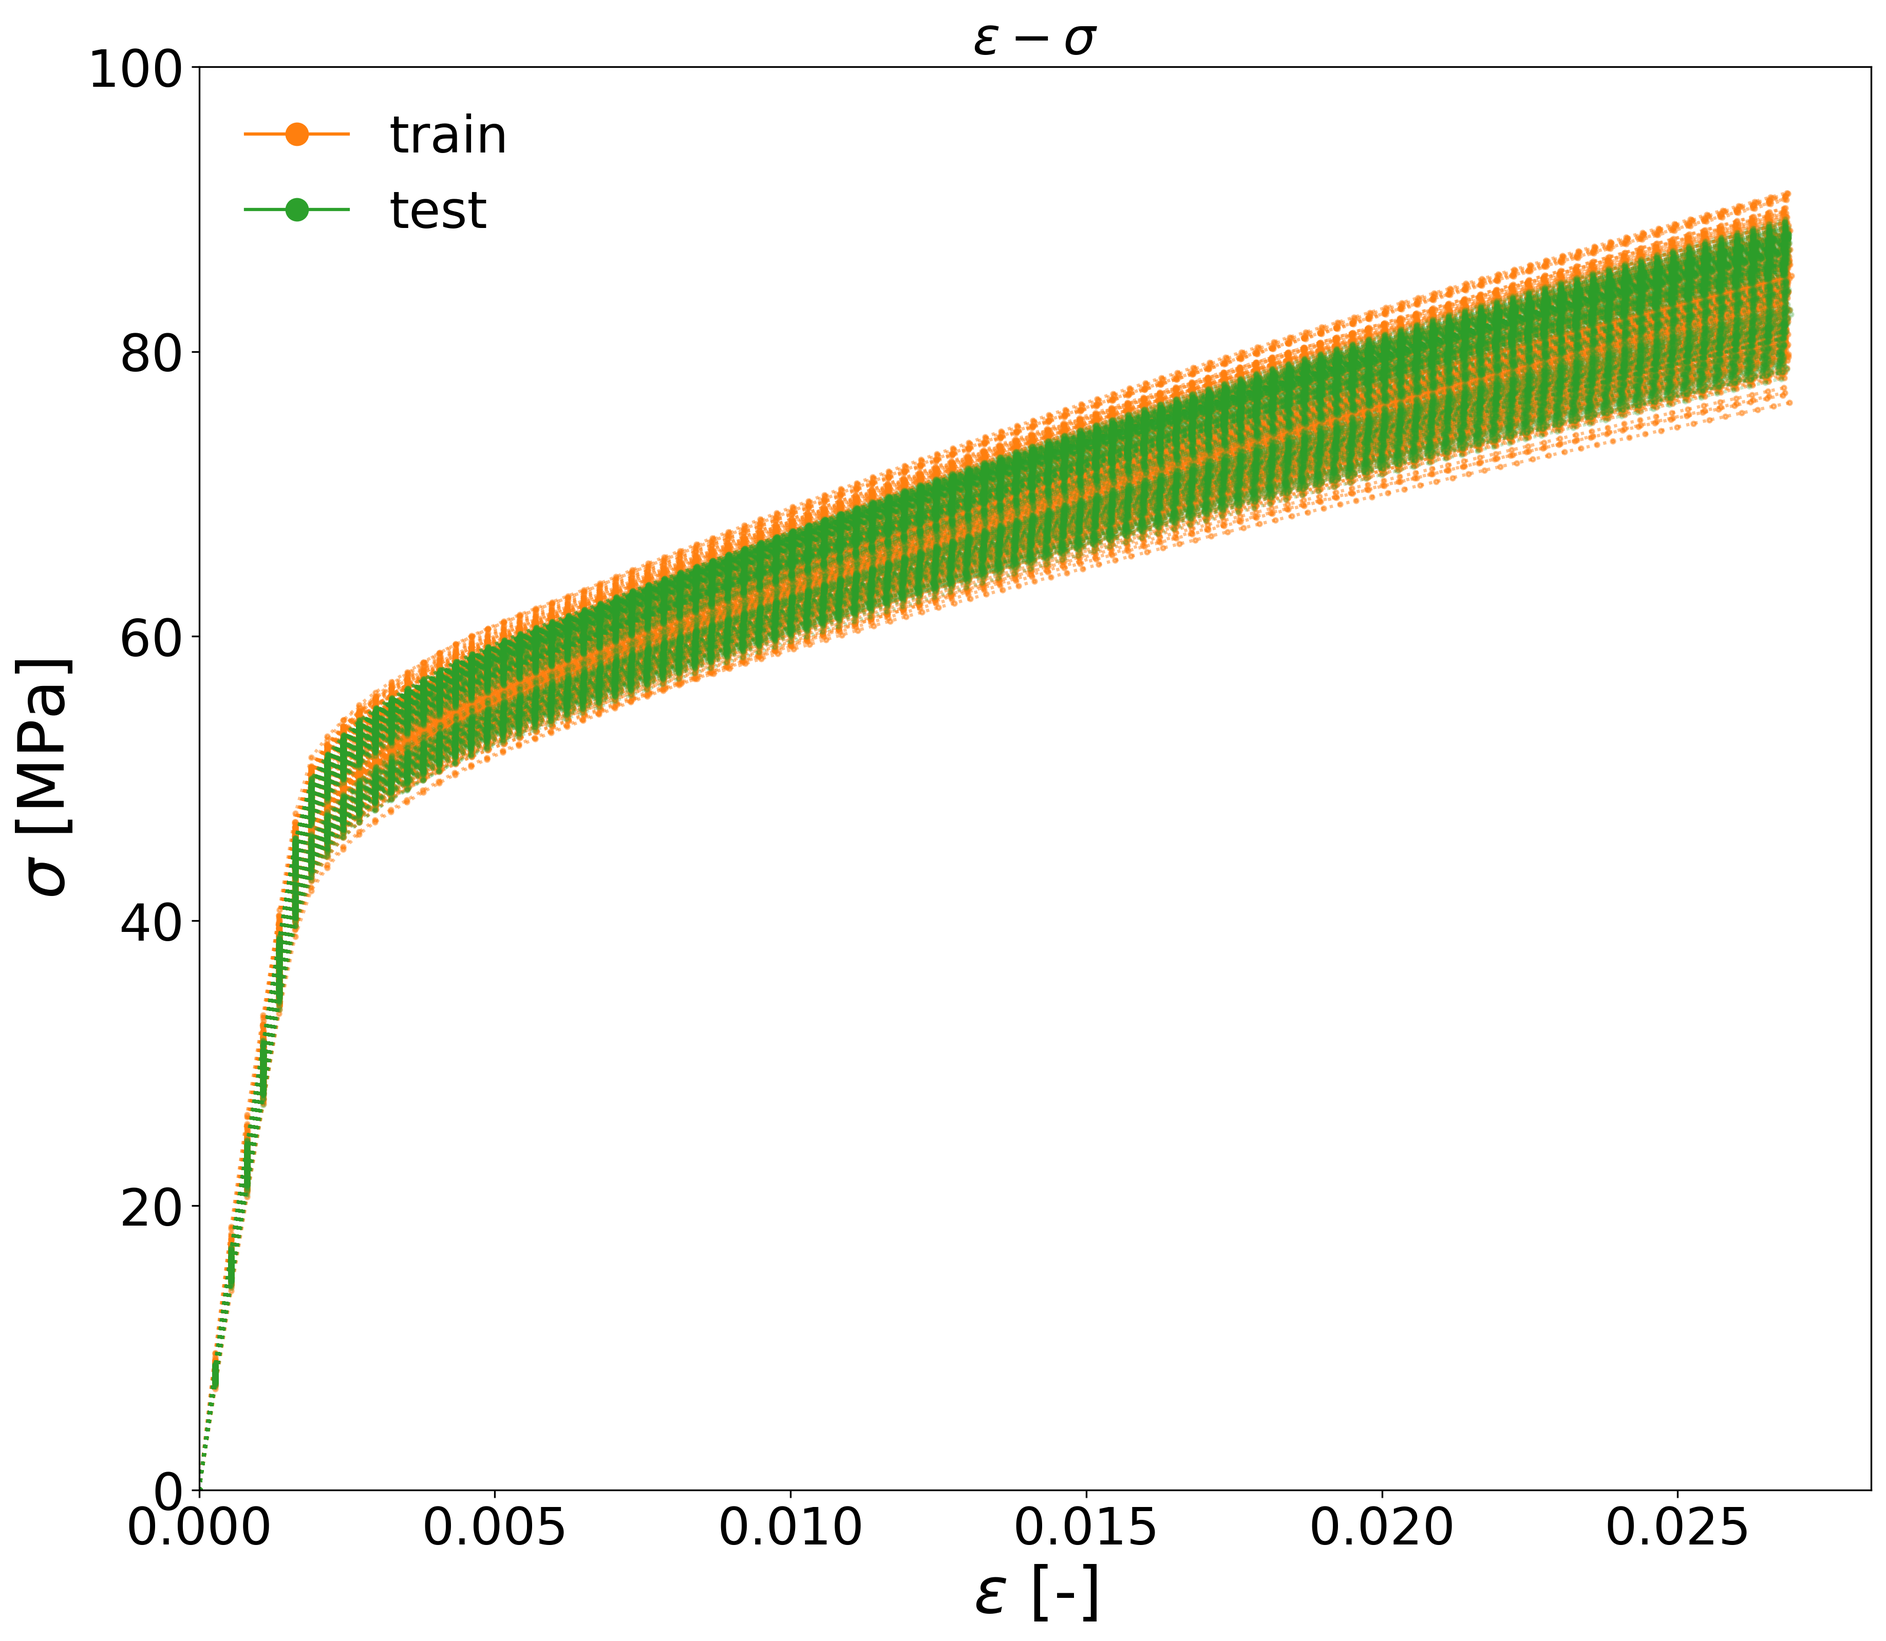
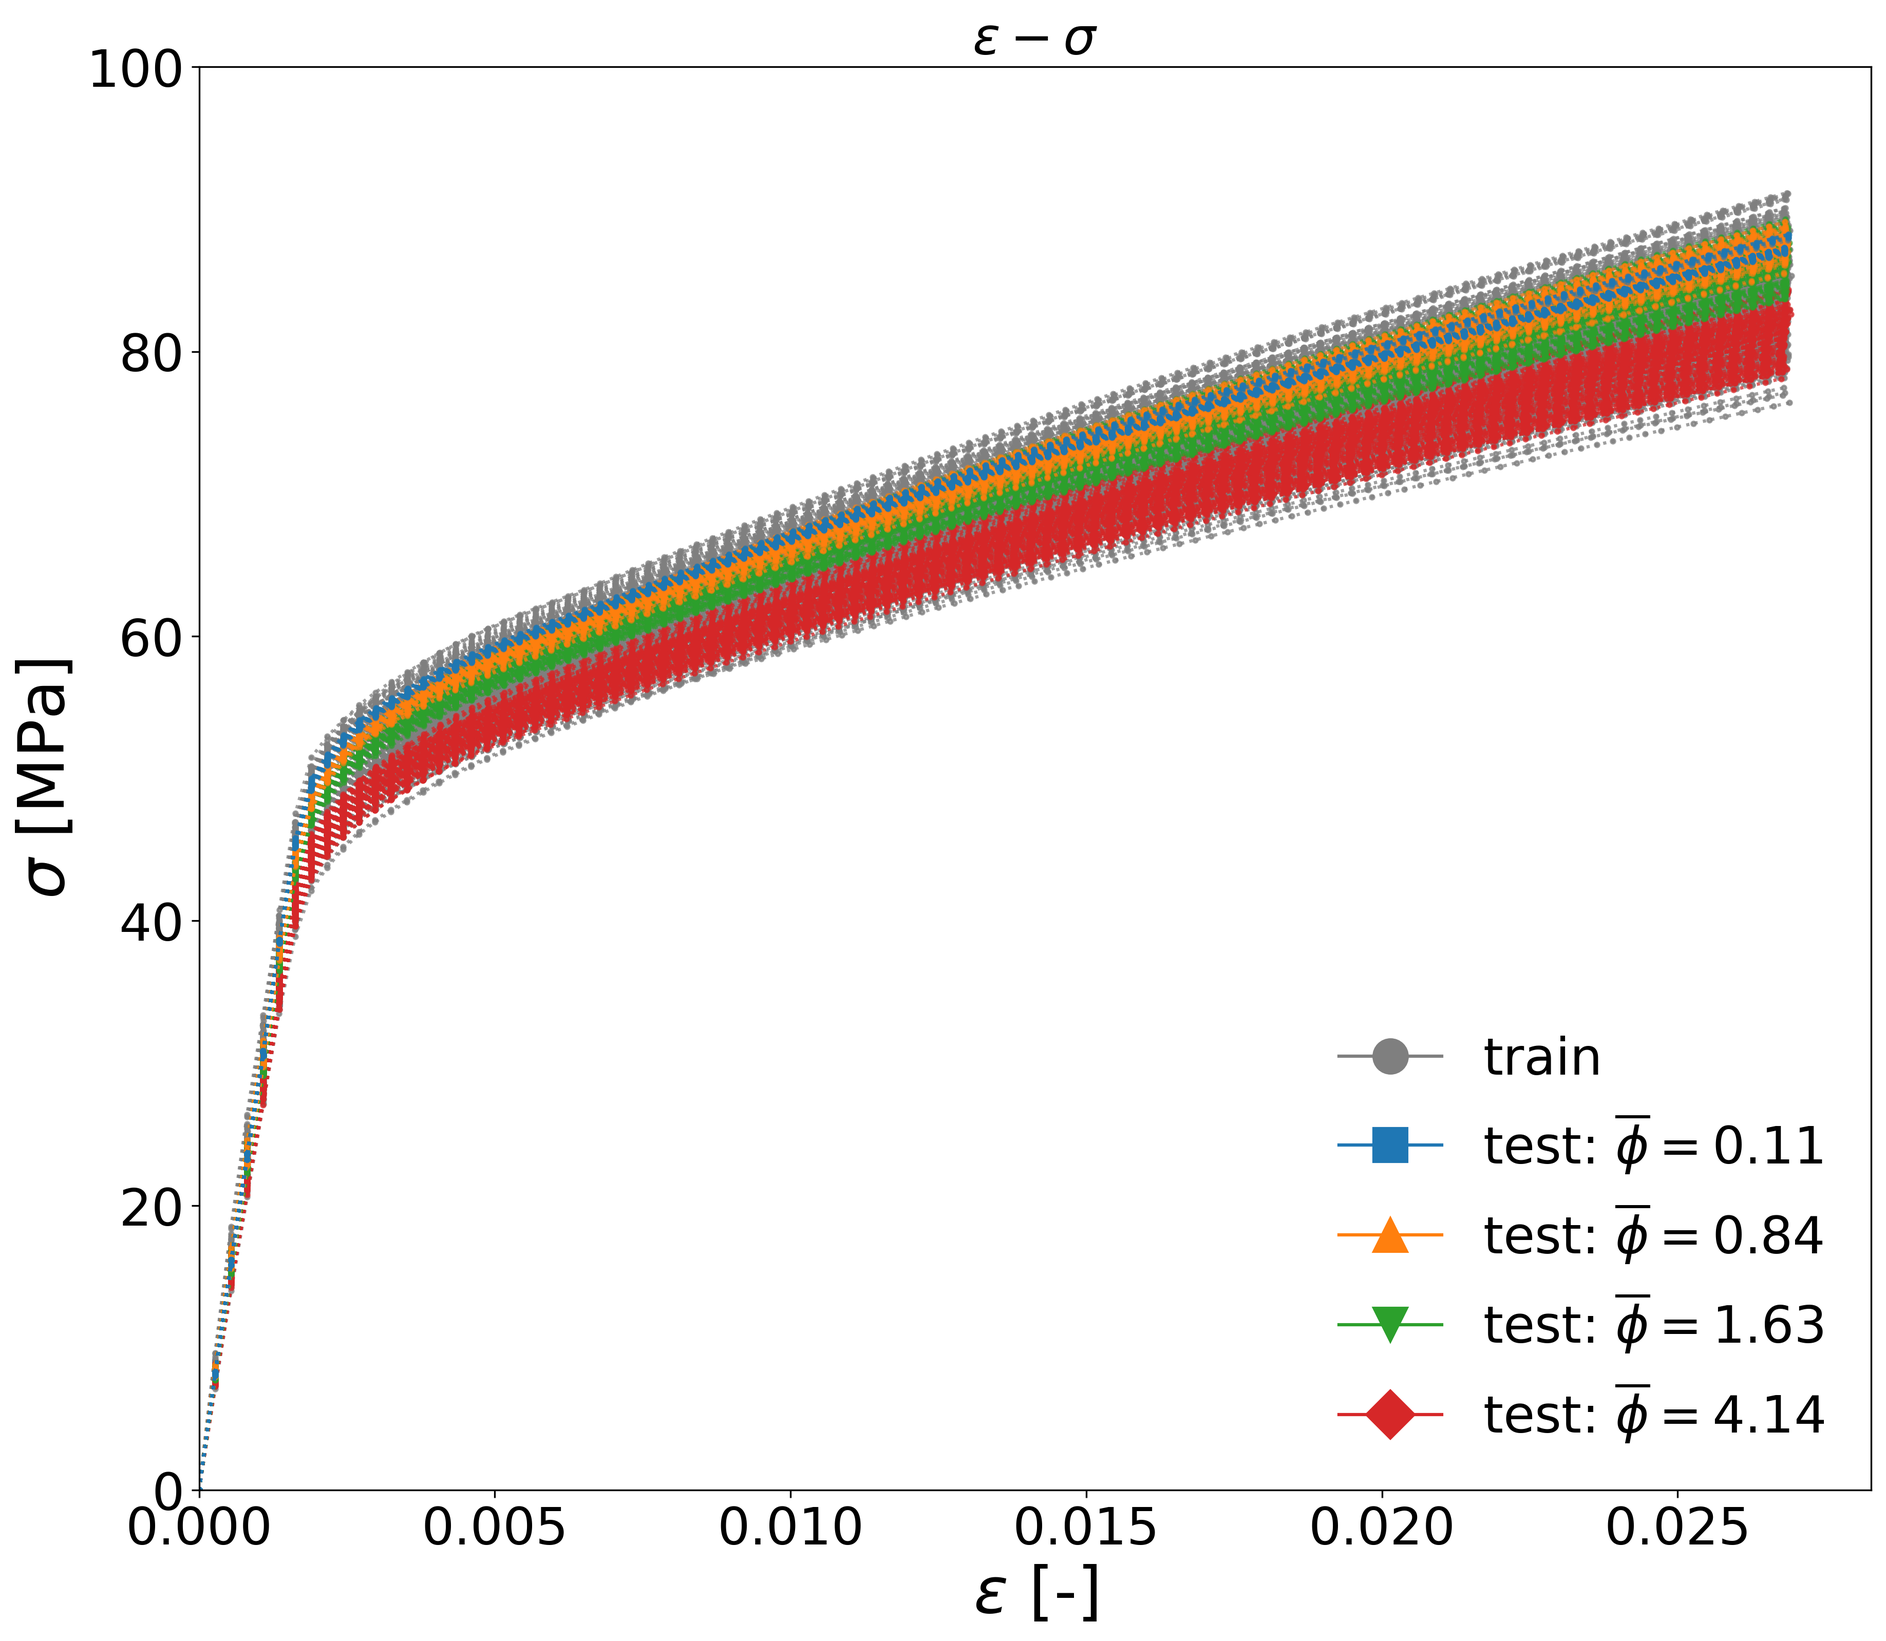
modify plotAllStressStrain.py for more clarity

diff --git a/test_CBayes_tensileDogbone/analysis/test.py b/test_CBayes_tensileDogbone/analysis/test.py
@@ -1,0 +1,160 @@
+import numpy as np
+from scipy.stats import norm # The standard Normal distribution
+from scipy.stats import gaussian_kde as GKDE # A standard kernel density estimator
+import matplotlib.pyplot as plt
+
+def QoI(lam,p): # defing a QoI mapping function
+    q = lam**p
+    return q
+
+# Approximate the pushforward of the prior
+N = int(1E4) # number of samples from prior
+lam = np.random.uniform(low=-1,high=1,size=N) # sample set of the prior
+
+# Evaluate the two different QoI maps on this prior sample set
+qvals_linear = QoI(lam,1) # Evaluate lam^1 samples
+qvals_nonlinear = QoI(lam,5) # Evaluate lam^5 samples
+ 
+# Estimate push-forward densities for each QoI
+q_linear_kde = GKDE( qvals_linear ) 
+q_nonlinear_kde = GKDE( qvals_nonlinear )
+
+def rejection_sampling(r):
+    N = r.size # size of proposal sample set
+    check = np.random.uniform(low=0,high=1,size=N) # create random uniform weights to check r against
+    M = np.max(r)
+    new_r = r/M # normalize weights 
+    idx = np.where(new_r>=check)[0] # rejection criterion
+    return idx
+
+# Evaluate the observed density on the QoI sample set and then compute r
+obs_vals_linear = norm.pdf(qvals_linear, loc=0.25, scale=0.1)
+obs_vals_nonlinear = norm.pdf(qvals_nonlinear, loc=0.25, scale=0.1)
+
+r_linear = np.divide(obs_vals_linear,q_linear_kde(qvals_linear))
+r_nonlinear = np.divide(obs_vals_nonlinear,q_nonlinear_kde(qvals_nonlinear))
+
+# Use rejection sampling for the CBayes posterior
+samples_to_keep_linear = rejection_sampling(r_linear)
+post_q_linear = qvals_linear[samples_to_keep_linear]
+post_lam_linear = lam[samples_to_keep_linear]
+
+samples_to_keep_nonlinear = rejection_sampling(r_nonlinear)
+post_q_nonlinear = qvals_nonlinear[samples_to_keep_nonlinear]
+post_lam_nonlinear = lam[samples_to_keep_nonlinear]
+
+# compute normalizing constants
+C_linear = np.mean(obs_vals_linear) 
+C_nonlinear = np.mean(obs_vals_nonlinear)
+
+sbayes_r_linear = obs_vals_linear/C_linear
+sbayes_r_nonlinear = obs_vals_nonlinear/C_nonlinear
+
+sbayes_samples_to_keep_linear = rejection_sampling(sbayes_r_linear)
+sbayes_post_q_linear = qvals_linear[sbayes_samples_to_keep_linear]
+sbayes_post_lam_linear = lam[sbayes_samples_to_keep_linear]
+
+sbayes_samples_to_keep_nonlinear = rejection_sampling(sbayes_r_nonlinear)
+sbayes_post_q_nonlinear = qvals_nonlinear[sbayes_samples_to_keep_nonlinear]
+sbayes_post_lam_nonlinear = lam[sbayes_samples_to_keep_nonlinear]
+
+# Compare the observed and the pushforwards of prior, Cbayes posterior and Sbayes posterior
+plt.figure()
+qplot = np.linspace(-1,1, num=100)
+obs_vals_plot = norm.pdf(qplot, loc=0.25, scale=0.1)
+
+postq_lin_kde = GKDE( post_q_linear )
+sb_postq_lin_kde = GKDE( sbayes_post_q_linear )
+
+oplot = plt.plot(qplot,obs_vals_plot, 'r-', linewidth=4, label="Observed")
+prplot = plt.plot(qplot,q_linear_kde(qplot),'b-', linewidth=4, label="PF of prior")
+poplot = plt.plot(qplot,postq_lin_kde(qplot),'k--', linewidth=4, label="PF of CBayes posterior")
+sb_poplot = plt.plot(qplot,sb_postq_lin_kde(qplot),'g--', linewidth=4, label="PF of SBayes posterior")
+
+plt.xlim([-1,1]), plt.xlabel("Quantity of interest"), plt.legend(), plt.show()
+
+# Compare the observed and the pushforwards of prior, Cbayes posterior and Sbayes posterior
+plt.figure()
+qplot = np.linspace(-1,1, num=100)
+obs_vals_plot = norm.pdf(qplot, loc=0.25, scale=0.1)
+
+postq_nl_kde = GKDE( post_q_nonlinear )
+sb_postq_nl_kde = GKDE( sbayes_post_q_nonlinear )
+
+oplot = plt.plot(qplot,obs_vals_plot, 'r-', linewidth=4, label="Observed")
+prplot = plt.plot(qplot,q_nonlinear_kde(qplot),'b-', linewidth=4, label="PF of prior")
+poplot = plt.plot(qplot,postq_nl_kde(qplot),'k--', linewidth=4, label="PF of Cbayes posterior")
+sb_poplot = plt.plot(qplot,sb_postq_nl_kde(qplot),'g--', linewidth=4, label="PF of SBayes posterior")
+
+plt.xlim([-1,1]), plt.xlabel("Quantity of interest"), plt.legend(), plt.show()
+
+# Let's compute some statistics, diagnostics and information gained.
+
+print(np.mean(post_q_linear))
+print(np.sqrt(np.var(post_q_linear)))
+print(np.mean(r_linear))
+print(np.mean(r_linear*np.log(r_linear)))
+
+print(np.mean(post_q_nonlinear))
+print(np.sqrt(np.var(post_q_nonlinear)))
+print(np.mean(r_nonlinear))
+print(np.mean(r_nonlinear*np.log(r_nonlinear)))
+
+obs_vals_nonlinear_new = norm.pdf(qvals_nonlinear, loc=0.0, scale=0.1)
+
+r_nonlinear_new = np.divide(obs_vals_nonlinear_new,q_nonlinear_kde(qvals_nonlinear))
+
+samples_to_keep_nonlinear_new = rejection_sampling(r_nonlinear_new)
+post_q_nonlinear_new = qvals_nonlinear[samples_to_keep_nonlinear_new]
+post_lam_nonlinear_new = lam[samples_to_keep_nonlinear_new]
+
+print(np.mean(post_q_nonlinear_new))
+print(np.sqrt(np.var(post_q_nonlinear_new)))
+print(np.mean(r_nonlinear_new))
+print(np.mean(r_nonlinear_new*np.log(r_nonlinear_new)))
+
+# Compare the observed and the pushforwards of prior and Cbayes posterior
+plt.figure()
+qplot = np.linspace(-1,1, num=100)
+obs_vals_plot = norm.pdf(qplot, loc=0, scale=0.1)
+postq_nl_kde = GKDE( post_q_nonlinear_new )
+
+oplot = plt.plot(qplot,obs_vals_plot, 'r-', linewidth=4, label="Observed")
+prplot = plt.plot(qplot,q_nonlinear_kde(qplot),'b-', linewidth=4, label="PF of prior")
+poplot = plt.plot(qplot,postq_nl_kde(qplot),'k--', linewidth=4, label="PF of Cbayes posterio r")
+
+plt.xlim([-1,1]), plt.xlabel("Quantity of interest"), plt.legend(), plt.show() 
+
+
+plt.figure()
+qplot = np.linspace(-0.25,0.25, num=100)
+Ns = [1E4, 1E5, 1E6] # Compute the pushforward of the prior for different sample sizes
+cs = ['b','r','g']
+for N,c in zip(Ns,cs):
+    lam_loop = np.random.uniform(low=-1,high=1,size=int(N)) 
+    qvals_nonlinear_loop = QoI(lam_loop,5)
+    q_nonlinear_kde_loop = GKDE( qvals_nonlinear_loop )
+    plt.plot(qplot,q_nonlinear_kde_loop(qplot),c, linewidth=2, label="PF approx, N=" + str(int(N)))
+plt.plot(qplot, 1/10*np.abs(qplot)**(-4/5),'k',label='Exact PF'), plt.ylim([0,12]), plt.legend(), plt.show()
+
+# Classical counterexample to converse of Scheffe's Theorem
+from scipy.optimize import bisect
+plt.figure()
+xplot = np.linspace(0,1,num=int(1E3))
+N = int(1E4)
+ns = [1,4,10]
+cs = ['g','b','k']
+alphas = [0.6,0.7,0.8]
+u = np.random.uniform(low=0,high=1,size=N) 
+lam_loop = np.zeros(N)
+for n,c,a in zip(ns,cs,alphas):
+    def f_n(x): # The pdf
+        return (1-np.cos(2*np.pi*n*x))
+    plt.subplot(1,2,1), plt.plot(xplot,f_n(xplot), c, linewidth=2, label='pdf for $f_n$, $n$='+str(n),alpha=a)
+    for i in range(N): # Sample from r.v. with the pdf
+        def F_n(x): # The cdf
+            return (x-1/(2*np.pi*n)*np.sin(2*np.pi*n*x)-u[i])
+        lam_loop[i] = bisect(F_n,0,1)
+    plt.subplot(1,2,2), plt.hist(lam_loop, color=c, label='samples from $f_n$, $n$='+str(n),alpha=a)
+plt.subplot(1,2,1), plt.legend(), plt.subplot(1,2,2), plt.legend()
+

diff --git a/test_CBayes_tensileDogbone/analysis/plotAllStressStrain.py b/test_CBayes_tensileDogbone/analysis/plotAllStressStrain.py
@@ -73,8 +73,21 @@ fig = plt.figure(num=None, figsize=(14, 12), dpi=300, facecolor='w', edgecolor='
 mpl.rcParams['xtick.labelsize'] = 24
 mpl.rcParams['ytick.labelsize'] = 24
 ax = fig.add_subplot(111)
-for mltype, color, alpha in zip(['train','test'], ['tab:orange','tab:green'], [0.50, 0.25]):
-    for folderName in glob.glob(f'{mltype}/*'):
+
+# for mltype, color, alpha in zip(['train','test'], ['tab:orange','tab:green'], [0.50, 0.25]):
+#     for folderName in glob.glob(f'{mltype}/*'):
+#         StressStrainFile = folderName + '/' + 'stress_strain.log'
+#         x, y = getTrueStressStrain(StressStrainFile)
+#         interp_x, interp_y = getInterpStressStrain(StressStrainFile)
+#         # ax.plot(x, y, marker='o', linestyle='--', markersize=6)
+#         ax.plot(interp_x, interp_y, marker='o', color=color, alpha=alpha, linestyle=':', markersize=2)
+#         # plt.legend(['true', 'cubic'], fontsize=24, frameon=False, markerscale=3)
+#
+# ax.plot([], [], marker='o', linestyle='-', markersize=2, color='tab:orange', label='train')
+# ax.plot([], [], marker='o', linestyle='-', markersize=2, color='tab:green',  label='test')
+
+for mltype, color, alpha in zip(['train/', 'test/test-run-437-', 'test/test-run-180-', 'test/test-run-90-', 'test/test-run-20-'], ['tab:gray', 'tab:red', 'tab:green', 'tab:orange', 'tab:blue'], [0.75, 0.75, 0.65, 0.55, 0.45]):
+    for folderName in glob.glob(f'{mltype}*/'):
         StressStrainFile = folderName + '/' + 'stress_strain.log'
         x, y = getTrueStressStrain(StressStrainFile)
         interp_x, interp_y = getInterpStressStrain(StressStrainFile)
@@ -82,9 +95,13 @@ for mltype, color, alpha in zip(['train','test'], ['tab:orange','tab:green'], [0
         ax.plot(interp_x, interp_y, marker='o', color=color, alpha=alpha, linestyle=':', markersize=2)
         # plt.legend(['true', 'cubic'], fontsize=24, frameon=False, markerscale=3)
 
-ax.plot([], [], marker='o', linestyle='-', markersize=2, color='tab:orange', label='train')
-ax.plot([], [], marker='o', linestyle='-', markersize=2, color='tab:green',  label='test')
-plt.legend(loc='best', fontsize=24, frameon=False, markerscale=5)
+ax.plot([], [], marker='o', linestyle='-', markersize=2, color='tab:gray', label='train')
+ax.plot([], [], marker='s', linestyle='-', markersize=2, color='tab:blue',  label=r'test: $\overline{\phi} = 0.11%$')
+ax.plot([], [], marker='^', linestyle='-', markersize=2, color='tab:orange',  label=r'test: $\overline{\phi} = 0.84%$')
+ax.plot([], [], marker='v', linestyle='-', markersize=2, color='tab:green',  label=r'test: $\overline{\phi} = 1.63%$')
+ax.plot([], [], marker='D', linestyle='-', markersize=2, color='tab:red',  label=r'test: $\overline{\phi} = 4.14%$')
+
+plt.legend(loc='best', fontsize=24, frameon=False, markerscale=8)
 plt.xlabel(r'$\varepsilon$ [-]', fontsize=30)
 plt.ylabel(r'$\sigma$ [MPa]', fontsize=30)
 if np.all(y * 1e6 > -1e-5):

diff --git a/test_CBayes_tensileDogbone/analysis/computeQoI.py b/test_CBayes_tensileDogbone/analysis/computeQoI.py
@@ -1,0 +1,71 @@
+
+import numpy as np
+import matplotlib.pyplot as plt
+import matplotlib as mpl
+import os, sys, glob, datetime
+import argparse
+import pandas as pd
+from scipy.interpolate import interp1d
+from scipy.interpolate import PchipInterpolator
+
+def getMetaInfo(StressStrainFile):
+    fileHandler = open(StressStrainFile)
+    txtInStressStrainFile = fileHandler.readlines()
+    fileHandler.close()
+    try:
+        numLinesHeader = int(txtInStressStrainFile[0].split('\t')[0])
+        fieldsList = txtInStressStrainFile[numLinesHeader].split('\t')
+    except:
+        numLinesHeader = int(txtInStressStrainFile[0].split(' ')[0])
+        fieldsList = txtInStressStrainFile[numLinesHeader].split(' ')
+        fieldsList = list(filter(('').__ne__, fieldsList)) # remove all ''
+        print('%s is not natural - i.e. it may have been copied/pasted.' % (StressStrainFile))
+    else:
+        print('Reading results in %s...' % (StressStrainFile))
+    for i in range(len(fieldsList)):
+        fieldsList[i] = fieldsList[i].replace('\n', '')
+    print('numLinesHeader = ', numLinesHeader)
+    print('fieldsList = ', fieldsList)
+    return numLinesHeader, fieldsList
+
+def readLoadFile(LoadFile):
+    load_data = np.loadtxt(LoadFile, dtype=str)
+    n_fields = len(load_data)
+    # assume uniaxial:
+    for i in range(n_fields):
+        if load_data[i] == 'Fdot' or load_data[i] == 'fdot':
+            print('Found *Fdot*!')
+            Fdot11 = float(load_data[i+1])
+        if load_data[i] == 'time':
+            print('Found *totalTime*!')
+            totalTime = float(load_data[i+1])
+        if load_data[i] == 'incs':
+            print('Found *totalIncrement*!')
+            totalIncrement = float(load_data[i+1])
+        if load_data[i] == 'freq':
+            print('Found *freq*!')
+            freq = float(load_data[i+1])
+    return Fdot11, totalTime, totalIncrement
+
+
+def getTrueStressStrain(StressStrainFile):
+    numLinesHeader, fieldsList = getMetaInfo(StressStrainFile)
+    d = np.loadtxt(StressStrainFile, skiprows=numLinesHeader+1)
+    df = pd.DataFrame(d, columns=fieldsList)
+    vareps = list(df['Mises(ln(V))'])  # strain -- pad original
+    sigma  = list(df['Mises(Cauchy)']) # stress -- pad original
+    _, uniq_idx = np.unique(np.array(vareps), return_index=True)
+    vareps = np.array(vareps)[uniq_idx]
+    sigma  = np.array(sigma)[uniq_idx]
+    x = (vareps)
+    y = sigma / 1e6
+    return x, y
+
+def getInterpStressStrain(StressStrainFile):
+    x, y = getTrueStressStrain(StressStrainFile)
+    interp_x = np.linspace(x.min(), x.max(), num=100)
+    # splineInterp = interp1d(x, y, kind='cubic', fill_value='extrapolate')
+    splineInterp = PchipInterpolator(x, y, extrapolate=True)
+    interp_y = splineInterp(interp_x)
+    return interp_x, interp_y
+

diff --git a/test_CBayes_tensileDogbone/analysis/tmp.py b/test_CBayes_tensileDogbone/analysis/tmp.py
@@ -1,0 +1,61 @@
+
+import numpy as np
+from scipy.stats import norm # The standard Normal distribution
+from scipy.stats import gaussian_kde as GKDE # A standard kernel density estimator
+from natsort import natsorted, ns # natural-sort
+import pandas as pd
+import seaborn as sns
+import matplotlib.pyplot as plt
+import matplotlib as mpl
+import os, sys, time, glob
+
+mpl.rcParams['xtick.labelsize'] = 24
+mpl.rcParams['ytick.labelsize'] = 24
+
+testIdxs = [20,90,180,437]
+folders = natsorted(glob.glob('*/'))
+
+porosities = []
+# for folder in folders:
+#     tmp = np.loadtxt(f'{folder}/porosity.txt')
+#     porosities += [tmp]
+
+# porosities = np.array(porosities) # Global, Local, Target
+
+for folder in folders:
+    tmp = np.loadtxt(f'{folder}/porosity.txt', dtype=float)
+    porosities.append({'global': tmp[0], 'local': tmp[1], 'target': tmp[2]})
+
+df = pd.DataFrame(porosities)
+
+fig = plt.figure(num=None, figsize=(20, 14), dpi=300, facecolor='w', edgecolor='k')
+plt.plot(df['global'], df['local'], 'bo', ms=10)
+plt.xlabel(r'global $\phi$', fontsize=24)
+plt.ylabel(r'local (gauge) $\phi$', fontsize=24)
+plt.title(r'QoI porosity $\phi$ measured globally and locally', fontsize=24)
+# plt.axis('equal')
+plt.xlim(left=0,right=0.06)
+plt.ylim(bottom=0,top=0.06)
+# plt.show()
+plt.savefig('porosities.png', dpi=300, facecolor='w', edgecolor='w', orientation='portrait', format=None, transparent=False, bbox_inches='tight', pad_inches=0.1, metadata=None)
+
+# g = sns.JointGrid(data=df, x='global', y='local',)
+# g.plot_joint(sns.scatterplot)
+
+# for k in df.kind.unique():
+#     data = df[df.kind == k]
+#     sns.kdeplot(x=data.x, fill=True, label=k, ax=g.ax_marg_x)
+#     sns.kdeplot(y=data.y, fill=True, label=k, ax=g.ax_marg_y)
+
+plt.figure(num=None, figsize=(20, 14), dpi=300, facecolor='w', edgecolor='k')
+sns.jointplot(data=df, x="global", y="local", kind='scatter', 
+    marginal_kind='kde',
+    marginal_kws={
+        'fill': True,    # Fill the area under the KDE curve
+        'color': 'purple',  # Set the color of the KDE curve
+        'alpha': 0.6,    # Set the transparency of the filled area
+        'linewidth': 2   # Set the line width of the KDE curve
+    })
+plt.xlabel(r'global $\phi$', fontsize=24)
+plt.ylabel(r'local (gauge) $\phi$', fontsize=24)
+plt.savefig('test.png', dpi=300, facecolor='w', edgecolor='w', orientation='portrait', format=None, transparent=False, bbox_inches='tight', pad_inches=0.1, metadata=None)

diff --git a/test_CBayes_tensileDogbone/analysis/computeGaugePorosity.py b/test_CBayes_tensileDogbone/analysis/computeGaugePorosity.py
@@ -1,0 +1,1 @@
+../spk/computeGaugePorosity.py

diff --git a/test_CBayes_tensileDogbone/analysis/README.md b/test_CBayes_tensileDogbone/analysis/README.md
@@ -1,0 +1,7 @@
+
+According to `computeGaugePorosity.py`:
+```py
+f.write(f'{globalPoro:<.4f}\n')
+f.write(f'{localPoro:<.4f}\n')
+f.write(f'{targetPoro:<.4f}\n')
+```
